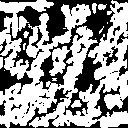
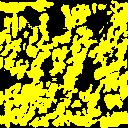
update in buildextract model

diff --git a/backend/src/scripts/buildExtract.py b/backend/src/scripts/buildExtract.py
@@ -1,30 +1,39 @@
 import numpy as np
 import tensorflow as tf
-import cv2
 import matplotlib.pyplot as plt
 from PIL import Image
 
 # Load the trained model
-model = tf.keras.models.load_model("src/model_ml/build.h5")  
+model = tf.keras.models.load_model("backend/src/model_ml/build.h5")  
 
 # Function to make a prediction on an image
 def predict_image(image_path):
     threshold = 0.5  # Set the decision threshold
     
-    img = Image.open(image_path)
+    img = Image.open(image_path).convert("RGB")
     img = img.resize((128, 128), Image.LANCZOS)
     np_img = np.array(img)
-    
-    np_img = np.array([np_img])
+
+    # Normalize if needed (depending on how the model was trained)
+    # np_img = np_img / 255.0
+
+    np_img = np.expand_dims(np_img, axis=0)  # Add batch dimension
+
     # Make a prediction
-    pred = model.predict(np_img)
-    pred = (pred > threshold).astype(np.uint8)  # Apply threshold
-    
-    output_path = "public/Output/build_mask.jpg"
-    pred_img = Image.fromarray(pred.squeeze() * 255)  # Convert to image, scale to 255
+    pred = model.predict(np_img)[0]  # Get the first (and only) output
+    pred_mask = (pred > threshold).astype(np.uint8).squeeze()
+
+    # Create a yellow and black RGB mask
+    yellow = [255, 255, 0]
+    black = [0, 0, 0]
+    mask_rgb = np.zeros((128, 128, 3), dtype=np.uint8)
+    mask_rgb[pred_mask == 1] = yellow
+    mask_rgb[pred_mask == 0] = black
+
+    output_path = "backend/public/Output/build_mask.jpg"
+    pred_img = Image.fromarray(mask_rgb)
     pred_img.save(output_path, format="JPEG")
     
-
 # Example usage
-image_path = "public/Input/sat.jpg" 
+image_path = "backend/public/Input/sat.jpg" 
 predict_image(image_path)
